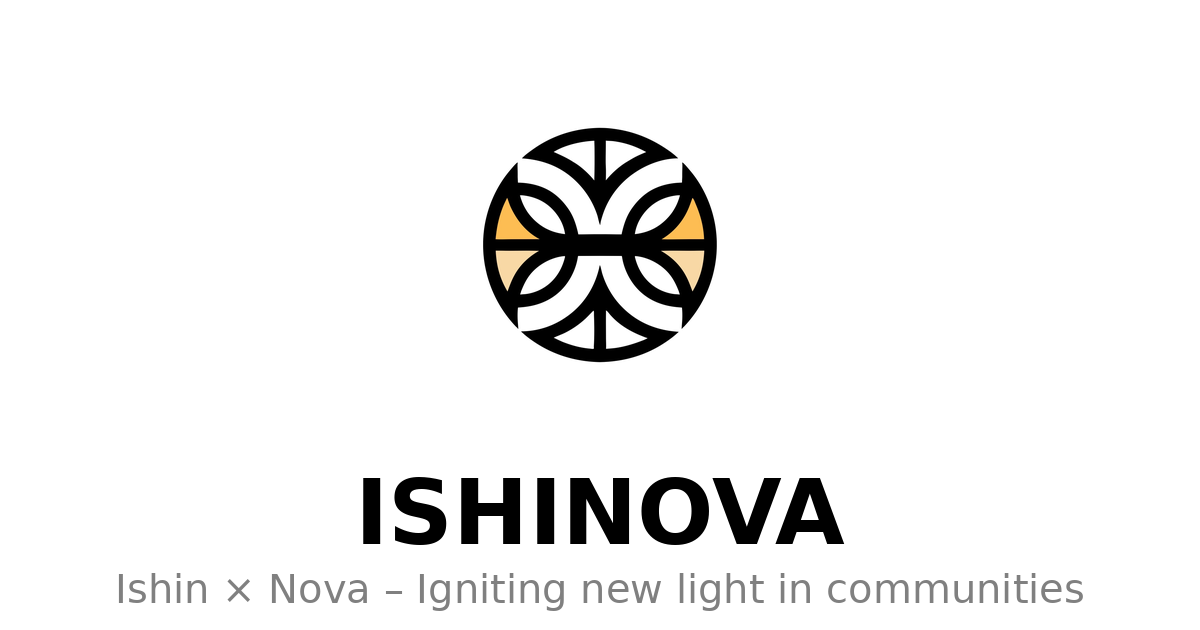
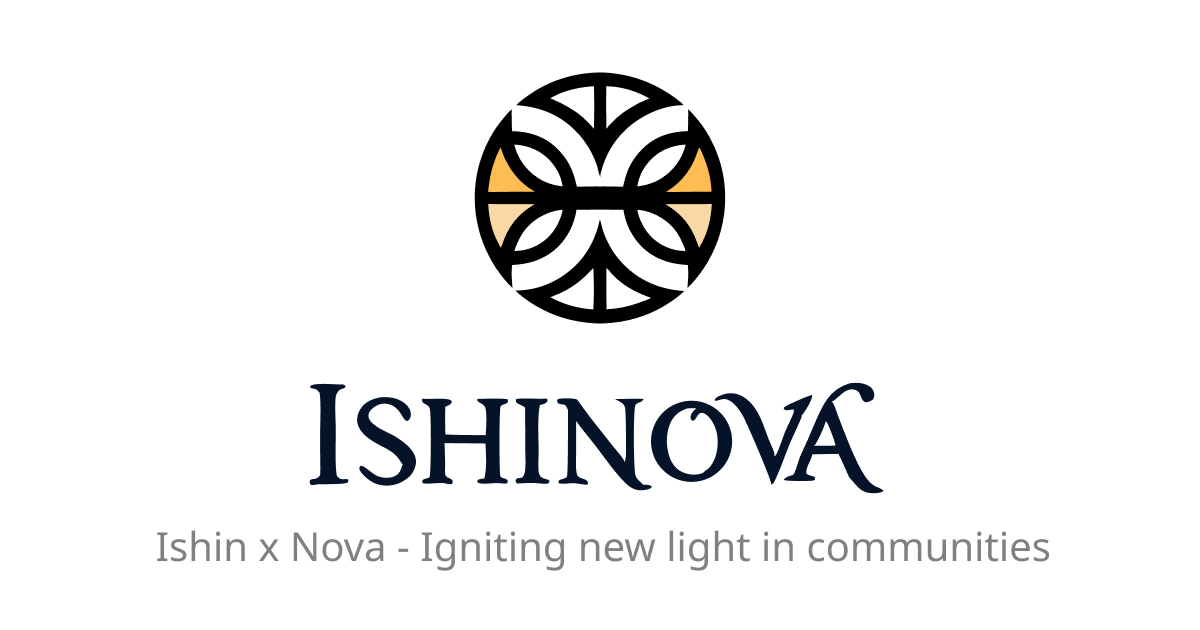
feat: ロゴ等の差し替え

Changed region(s): [[0.0925, 0.6032, 0.925, 0.9651], [0.37, 0.0905, 0.6167, 0.573]]

diff --git a/README.md b/README.md
@@ -1,4 +1,6 @@
-# Ishinova - コーポレートサイト
+![hero.svg](public/assets/hero.svg)
+
+# ishinova.co.jp
 
 「維新（Ishin）」と「新星（Nova）」の融合による、伝統的価値観と破壊的イノベーションの統合を象徴するコーポレートサイト。
 
